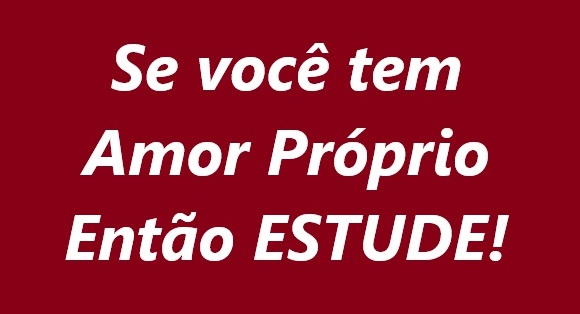
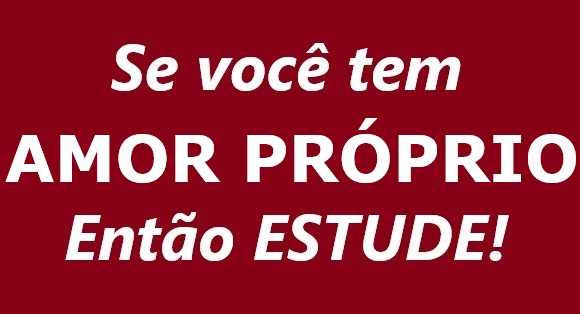
Atualizando a página dicas de livros

Changed region(s): [[0.0, 0.3726, 0.9931, 0.6306]]

diff --git a/DicasLivros.html b/DicasLivros.html
@@ -11,7 +11,7 @@
 	margin-right: auto;
 	margin-left: auto;
 	background-color: #CCC;
-	height: 12060px;
+	height: 12330px;
 }
 #logo {
 	position:relative;
@@ -37,7 +37,7 @@
 	left:11px;
 	top:39px;
 	width:777px;
-	height:11860px;
+	height:12130px;
 	z-index:3;
 	font-family: Arial, Helvetica, sans-serif;
 	font-size: 16px;
@@ -265,9 +265,11 @@ function MM_swapImage() { //v3.0
     <p align="center"><img src="imagens/dicas_livros/Colecao-mitologia-grega.jpeg" width="450" height="500" alt="Imagem de títulos da mitologia grega"></p>
     <p>Por que ler histórias da Mitologia Grega? <br>Ler mitologia grega é fundamental para compreender as raízes da cultura ocidental, influenciando profundamente a literatura, artes, filosofia e psicologia. Ela oferece explicações simbólicas sobre a natureza humana, emoções e fenômenos naturais, além de ensinar valores através de histórias clássicas de deuses e heróis que persistem na cultura pop atual.</p>
     <p>&nbsp;</p>
-    <h3 align="center">Livros de história do Brasil de Laurentino Gomes e livros de história em geral</h3>
+    <h3 align="center">Livros de história do Brasil e de história geral</h3>
     <p><img src="imagens/dicas_livros/livors-Laurentino-Gomes.png" width="780" height="250" alt="Capa dos livros de Laurentino Gomes, Escravidão e trilogia da família real no Brasil."></p>
-    <p>Laurentino Gomes escreve como jornalista: com narrativa envolvente, linguagem clara e baseada em pesquisas. Esses livros ajudam a entender como o passado explica o presente do Brasil, de forma clara, interessante e baseada em fatos históricos. E mostram como acontecimentos do passado moldaram a política, a sociedade e os problemas atuais do país.</p>
+    <p>Entender História é uma das melhores formas de compreender o mundo em que vivemos. Muitos dos problemas, conflitos, desigualdades, costumes e ideias presentes na sociedade atual não surgiram de repente: são resultado de acontecimentos, decisões e transformações que ocorreram ao longo de décadas ou até séculos. Conhecer a História do Brasil e a História Geral nos ajuda a enxergar essas conexões, compreender diferentes pontos de vista e desenvolver uma visão mais crítica sobre as informações que recebemos diariamente. Afinal, quando conhecemos o passado, conseguimos observar o presente com outros olhos.</p>
+    <p>Estudar História também é uma maneira de compreender melhor as pessoas. Guerras, revoluções, movimentos sociais, descobertas, mudanças políticas e transformações econômicas modificaram profundamente a maneira como as sociedades vivem e pensam. Ler sobre esses acontecimentos nos permite conhecer outras culturas, entender as origens de diferentes ideias e perceber que muitos problemas que parecem novos possuem raízes antigas. A História não serve apenas para saber o que aconteceu, mas para refletir sobre por que aconteceu, quais foram suas consequências e o que podemos aprender com isso.</p>
+    <p>Não é necessário começar pelos livros mais difíceis: o importante é começar a ler, comparar diferentes autores e construir, aos poucos, o seu próprio conhecimento. Para quem deseja começar, existem muitos livros excelentes. Na História do Brasil, obras como 1808, 1822 e 1889, de Laurentino Gomes, são uma porta de entrada bastante acessível para conhecer momentos importantes da formação do país.</p>
     <p>Por que ler livros de história? <br>Ler história aumenta repertório cultural e ajuda a entender melhor o mundo e outras sociedades. É importante conhecer diferentes interpretações do passado, pois isso ajuda a analisar melhor discursos políticos, ideologias e notícias.</p>
     <p>&nbsp;</p>
     <h3 align="center">George Orwell - 1984 e A Revolução dos Bichos.</h3>
